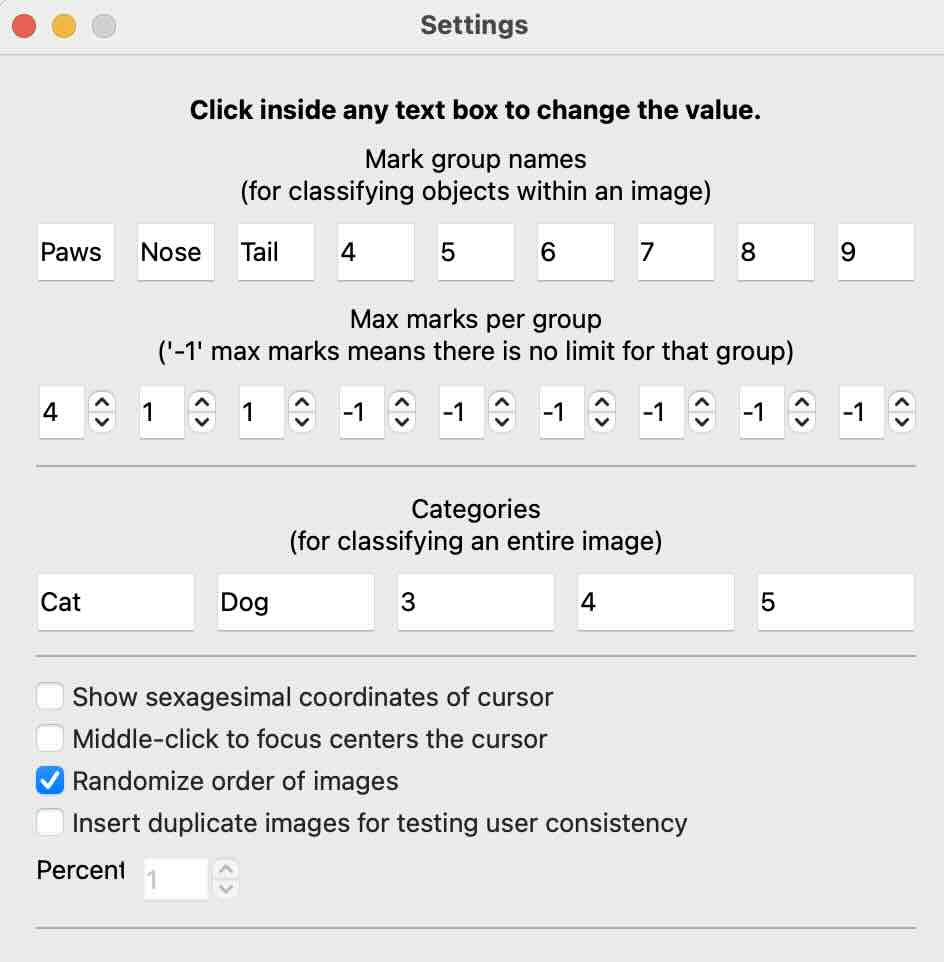
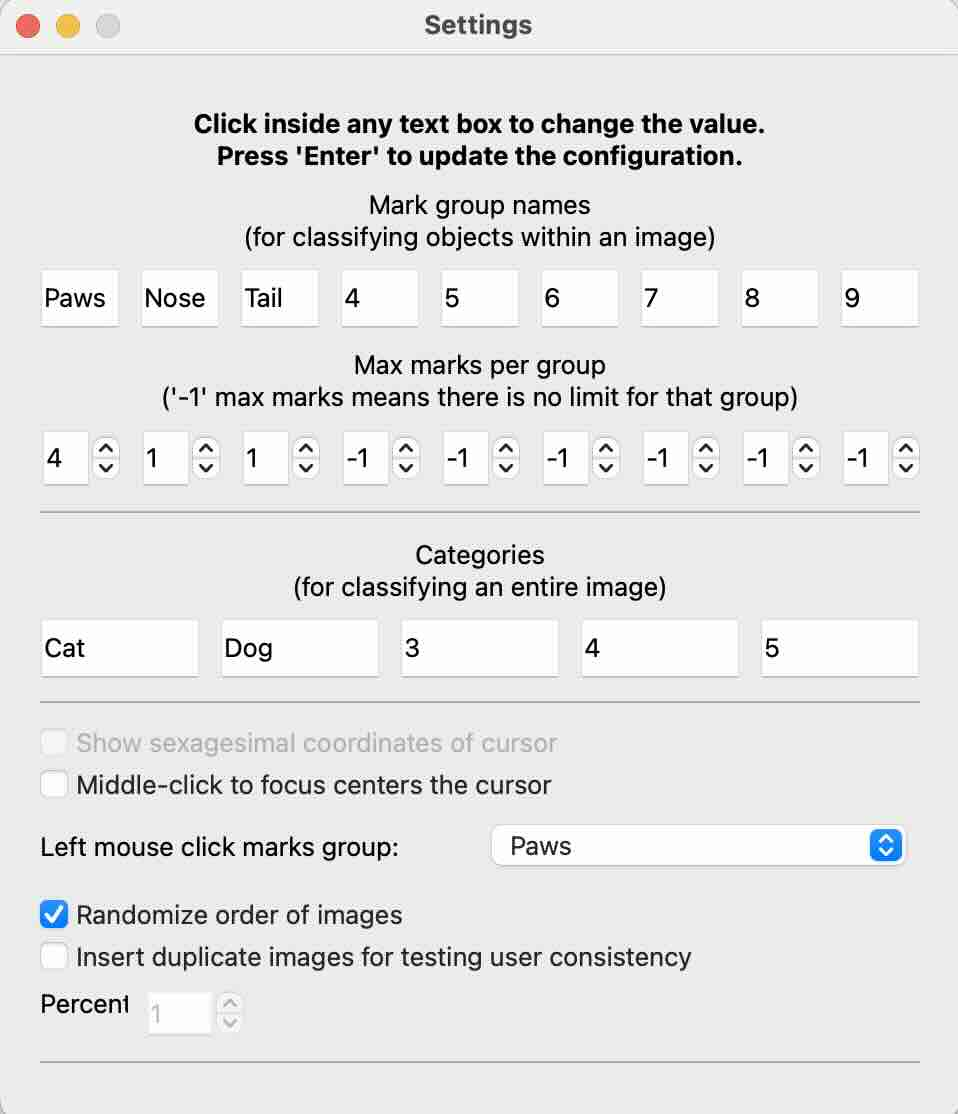
Update install and config of readthedocs
Updating options and figure in docs

diff --git a/docs/source/start/config.rst b/docs/source/start/config.rst
@@ -5,7 +5,7 @@ Settings
 ---------------------
 Settings can be configured within the GUI (**Image Marker > Preferences** (MacOS) or **Edit > Settings** (Windows/Linux)) or directly edited in the configuration file (``<username>_config.txt``). Right now, only some settings are available in the configuration file, while everything is available in the GUI.
 
-Note: While there are only 9 distinct `mark`s  available, users can combine `image category` with `mark`s to make 59 unique flagged combinations.
+Note: While there are only 9 distinct **mark**s  available, users can combine **image category** with **mark**s to make 59 unique flagged combinations.
  
 .. list-table:: Settings available for editing within the GUI (**Image Marker > Preferences** (MacOS) or **Edit > Settings** (Windows/Linux))
    :widths: 50 50
@@ -14,13 +14,15 @@ Note: While there are only 9 distinct `mark`s  available, users can combine `ima
    * - Setting
      - Description
    * - Groups
-     - The name of each :ref:`mark <marks>` can be customized here for your specific purpose. The names are in order of their keybinds, so the far left text box corresponds to pressing "1" on the keyboard or the Left Mouse Button (click on MacOS trackpad), and the far right text box corresponds to pressing "9" on the keyboard.
+     - The name of each :ref:`mark <marks>` can be customized here for your specific purpose. The names are in order of their keybinds, so the far left text box corresponds to pressing "1" on the keyboard and the far right text box corresponds to pressing "9" on the keyboard. The keybind attached to the Left Mouse Button (click on MacOS trackpad) can be customized in the settings.
    * - Max marks per group
      - The maximum allowed number of :ref:`marks <marks>` in their respective group can be customized here. A value of "-1" indicates no limit on that group. As with group names above, the far left number box corresponds to the first group.
    * - Categories
      - Each :ref:`image category <categories>` name can be customized here for your specific purpose. The category names are in order of their keybinds, so the far left text box corresponds to pressing "Cmd+1" (Mac OS) or "Ctrl+1" (Windows/Linux) on the keyboard, and the far right text box corresponds to pressing "Cmd+5" (MacOS) "Ctrl+5" (Windows/Linux) on the keyboard.
    * - Middle-click to focus centers the cursor 
      - Enabling this option will center your cursor in the image display window when clicking on the scroll wheel. Since middle-clicking pans to the cursor, this option will place your cursor where you pan to after panning. **On MacOS holding option while clicking the track pad has the same functionality.**
+   * - Left mouse clicks marks group: 
+     - Drop down menu allowing assigmnet of which mark is assigned on Left Mouse/trackpad click. 
    * - Randomize order of images
      - Randomizes the order that images are shown when pressing next. If enabled, images that have already been viewed keep their order when disabling and re-enabling this option.
    * - Insert duplicate images for testing user consistency
@@ -45,7 +47,8 @@ Note: While there are only 9 distinct `mark`s  available, users can combine `ima
      - The maximum number of marks that can be placed for a particular group. The position of the value that is replaced in this variable corresponds to which group it limits. This can be changed in the GUI as well (**Image Marker > Preferences** in MacOS or **Edit > Settings** in Windows/Linux).
    * - ``randomize_order``
      - True or False, whether or not the displayed images are shuffled randomly or displayed in alphabetical order. This can be changed in the GUI as well (**Image Marker > Preferences** in MacOS or **Edit > Settings** in Windows/Linux).
-
+   * - ``left_click_group``
+     - Number of group (1-9) to assign to the left mouse click/trackpad click.  
 .. Note::
    - Renaming groups or categories after already having classified some images into the corresponding group of marks or category **will rename** the groups and categories in your save files, as well as all marks in the renamed groups that have already been placed.
    - Decreasing the value of a groups' max marks **will not** delete any previously made marks on any image, since there is no way for Image Marker to decide which marks take priority. This means that changes in max marks per group will only be applied going forward.
@@ -61,13 +64,15 @@ This configuration::
    categories = Cat,Dog,3,4,5
    group_max = 4,1,1,None,None,None,None,None,None
    randomize_order = True
+   left_click_group = 2
 
 * renames group 1 to "Paws" and limits the number of marks in the group "Paws" to 4
 * renames group 2 to "Nose" and limits the number of marks in group "Nose" to 1
 * renames group 3 to "Tail" and limits the number of marks in group "Tail" to 1
 * renames category 1 to "Cat" and
 * renames category 2 to "Dog"
-
+* sets the group marked by a left-mouse/trackpad click to "Nose" (the 2nd group). 
+ 
 The same configuration would appear in the Settings window as below:
 
 .. figure:: Settings_screenshot.jpg

diff --git a/docs/source/start/installation.rst b/docs/source/start/installation.rst
@@ -3,7 +3,7 @@ Installation
 
 .. Important::
     - It is recommended that you create a Python environment for Image Marker using a tool like `Anaconda <https://anaconda.org/>`_.
-    - Image Marker was developed using Python 3.12, so we recommend an environment with this Python version.
+    - Image Marker was developed using Python 3.12, so we recommend an environment with this Python version. Python versions 3.10-3.13 have been validated to work.
     - Installing Image Marker automatically installs Python dependencies in the environment.
     - Executables **do not** install Image Marker, instead they are run directly, and thus do not need a Python environment to run in.
 
